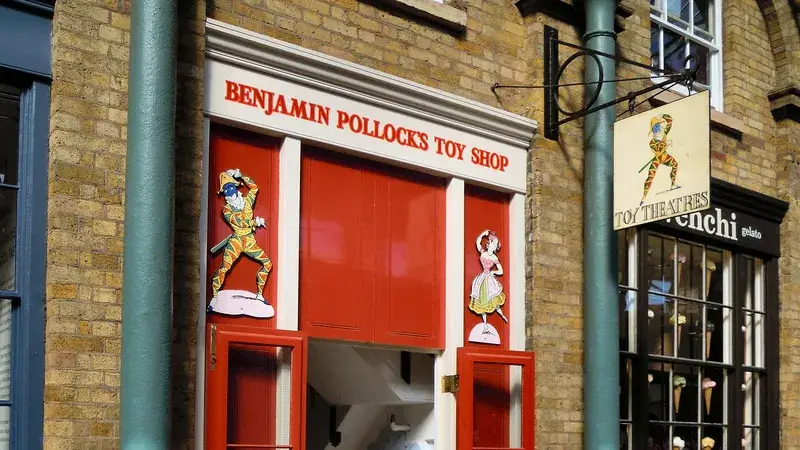
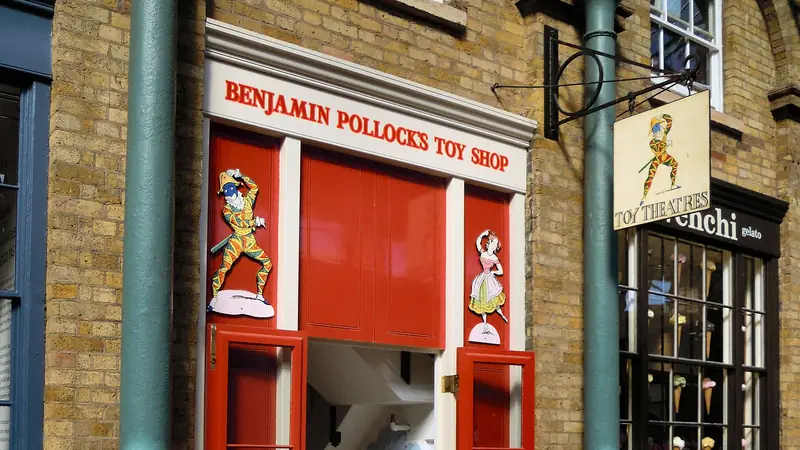
Londra: foto per Shrek's Adventure, foto delle tappe rigenerate
La card di Shrek's Adventure usa l'immagine fornita da Alessandro:
eccezione dichiarata alla regola delle licenze libere (materiale
promozionale), segnata in CREDITS.md e sotto la card.

Per farle posto tutte le foto Commons sono rigenerate dagli originali
a q70 con effort 6: prima generazione invece di q70 ricavate da WebP
q80, ritagli invariati, cartella da 1495,8 a 1410,5 kB.

Claude-Session: https://claude.ai/code/session_019UAmSWkNrcrHkoKPY2ra38

diff --git a/_legacy/londra.html b/_legacy/londra.html
@@ -710,7 +710,7 @@
         </article>
         <article class="tcard solo-pioggia" data-tappa="shrek">
           <div class="tcard__foto">
-            <img src="assets/tappe/londra/shrek.svg" width="800" height="450" alt="Illustrazione di Shrek’s Adventure! London" loading="lazy" decoding="async">
+            <img src="assets/tappe/londra/shrek.webp" width="800" height="450" alt="Famiglie con gli occhiali 3D sul carro di Shrek’s Adventure, con Ciuchino in primo piano e l’insegna Far Far Away" loading="lazy" decoding="async">
             <span class="tcard__ora">15:30</span>
           </div>
           <div class="tcard__body">
@@ -723,6 +723,7 @@
             <p class="plus-warn">⚠ La domenica chiude alle 16:00: alle 15:30 resterebbe mezz’ora scarsa. Se piove davvero, conviene entrare subito dopo SEA LIFE, che è nello stesso edificio. Durata della visita e prezzo sono ancora da verificare.</p>
             <a class="gmap" href="https://www.google.com/maps/search/?api=1&amp;query=51.5018817,-0.1193734" target="_blank" rel="noopener">📍 Apri in Google Maps</a>
           </div>
+          <p class="tcard__credito">foto: immagine promozionale di Shrek’s Adventure! London</p>
         </article>
         <a class="percorso" href="https://www.google.com/maps/dir/?api=1&amp;origin=51.5031864,-0.1195192&amp;destination=51.5129114,-0.1364381&amp;waypoints=51.5123401,-0.1342553%7C51.5133,-0.1391&amp;travelmode=walking" target="_blank" rel="noopener" data-percorso="Domenica · London Eye → Lina Stores → Carnaby → casa">
           <span class="percorso__ic" aria-hidden="true">🗺</span>
@@ -1733,6 +1734,9 @@
      dati bloccati) il pannello non compare da solo: uno che non si può chiudere per sempre è peggio di niente.
      Il link in fondo alla pagina lo riapre con tutto lo storico, in ogni caso. */
   var NOVITA = [
+    { v: 13, data: '2026-09-27', titolo: 'Foto più nitide, e una foto per Shrek’s Adventure', voci: [
+      'Tutte le foto delle tappe rifatte dagli originali: la pagina pesa meno e le immagini sono più pulite',
+      'La card di Shrek’s Adventure (con «🌧 Piove» acceso) ha una foto vera al posto dell’illustrazione' ] },
     { v: 12, data: '2026-09-27', titolo: 'Se piove domenica pomeriggio: Shrek’s Adventure', voci: [
       'Con «🌧 Piove» acceso, la domenica pomeriggio propone Shrek’s Adventure! London al posto del London Eye: stesso edificio di SEA LIFE, al coperto',
       'A pulsante spento resta il London Eye, come sempre. Attenzione: la domenica Shrek’s chiude alle 16:00' ] },

diff --git a/CHANGELOG.md b/CHANGELOG.md
@@ -552,3 +552,8 @@ Cercati bug dello stesso tipo di "portiere che si rituffa nel replay": due cambi
 - La nota "visibilità ridotta dall'alto" sulla card dell'Eye è passata dentro la card di Shrek: con la pioggia accesa la card dell'Eye non si vede più, e lì non l'avrebbe letta nessuno.
 - Nessuna foto su Commons: **card stilizzata** `shrek.svg` (icona Lucide del castello, mosaico con un seme suo), generata da `scripts/londra-cards.mjs`, che non produce più la card dell'appartamento. Per restare sotto 1,5 MB le ultime tre foto a q80 (lhr, blq, ba) sono scese a q70: cartella a 1495,8 kB. **Ora sono tutte a q70**.
 - Quarta voce in `DA_VERIFICARE_LONDRA.md` e nel badge: durata, prezzo e ultimo ingresso di domenica. Novità v12.
+
+## Londra · foto per Shrek's Adventure e foto rigenerate dagli originali
+- La card di Shrek's Adventure (visibile solo con "Piove" acceso) usa l'**immagine fornita da Alessandro** al posto della card stilizzata: ritaglio 16:9 con bias 0,15, che tiene intera l'insegna "Far Far Away" e Ciuchino. **È un'eccezione dichiarata alla regola delle licenze libere**: è materiale promozionale del gestore, non una foto Commons né di famiglia. È segnata così in `CREDITS.md` e sotto la card; `shrek.svg` rimossa, ma si rigenera con `npm run cards:londra`.
+- Per farle posto senza sforare 1,5 MB, **tutte le foto della pipeline sono state rigenerate dagli originali Commons** a q70 con `effort: 6`, cioè alla massima compressione dell'encoder a parità di qualità. Molte erano q70 ottenute ricomprimendo un WebP q80, cioè di seconda generazione: ora sono tutte di prima generazione, quindi più pulite, e la cartella pesa **1410,5 kB** invece di 1495,8. Ritagli invariati, ricontrollati tutti in un provino. `scripts/londra-foto.mjs` ora codifica sempre con `effort: 6`.
+- Novità v13.

diff --git a/CREDITS.md b/CREDITS.md
@@ -145,9 +145,15 @@ restituisce spesso dettagli irriconoscibili o omonimi sbagliati.
 | Appartamento, 79 Beak Street | `public/assets/tappe/londra/apt.webp` | No Swan So Fine | [CC BY-SA 4.0](https://creativecommons.org/licenses/by-sa/4.0) | [79 Beak Street, Soho, January 2022.jpg](https://commons.wikimedia.org/wiki/File:79_Beak_Street,_Soho,_January_2022.jpg) |
 | Benjamin Pollock's Toyshop | `public/assets/tappe/londra/pollock.webp` | Jack1956 | [CC0](http://creativecommons.org/publicdomain/zero/1.0/deed.en) | [Benjamin Pollocks Toy Shop exterior.jpg](https://commons.wikimedia.org/wiki/File:Benjamin_Pollocks_Toy_Shop_exterior.jpg) |
 
-Ultimo aggiornamento: `npm run foto:londra` · 25 foto, 1422 kB in tutto.
+Ultimo aggiornamento: `npm run foto:londra` · 25 foto, 1314 kB in tutto.
 
 <!-- foto-londra:end -->
+
+### Eccezione alla regola delle licenze libere (Londra)
+
+| Tappa | File nel sito | Fonte | Licenza |
+|---|---|---|---|
+| Shrek's Adventure! London (solo con "Piove" acceso) | `public/assets/tappe/londra/shrek.webp` | Immagine promozionale di Shrek's Adventure! London, fornita da Alessandro | **Non libera**: materiale promozionale del gestore, non una foto Commons né una foto di famiglia. Usata su richiesta esplicita; per tornare alla card stilizzata basta `npm run cards:londra` e ripuntare la card su `shrek.svg`. |
 
 ## Card stilizzate (originali del progetto)
 
